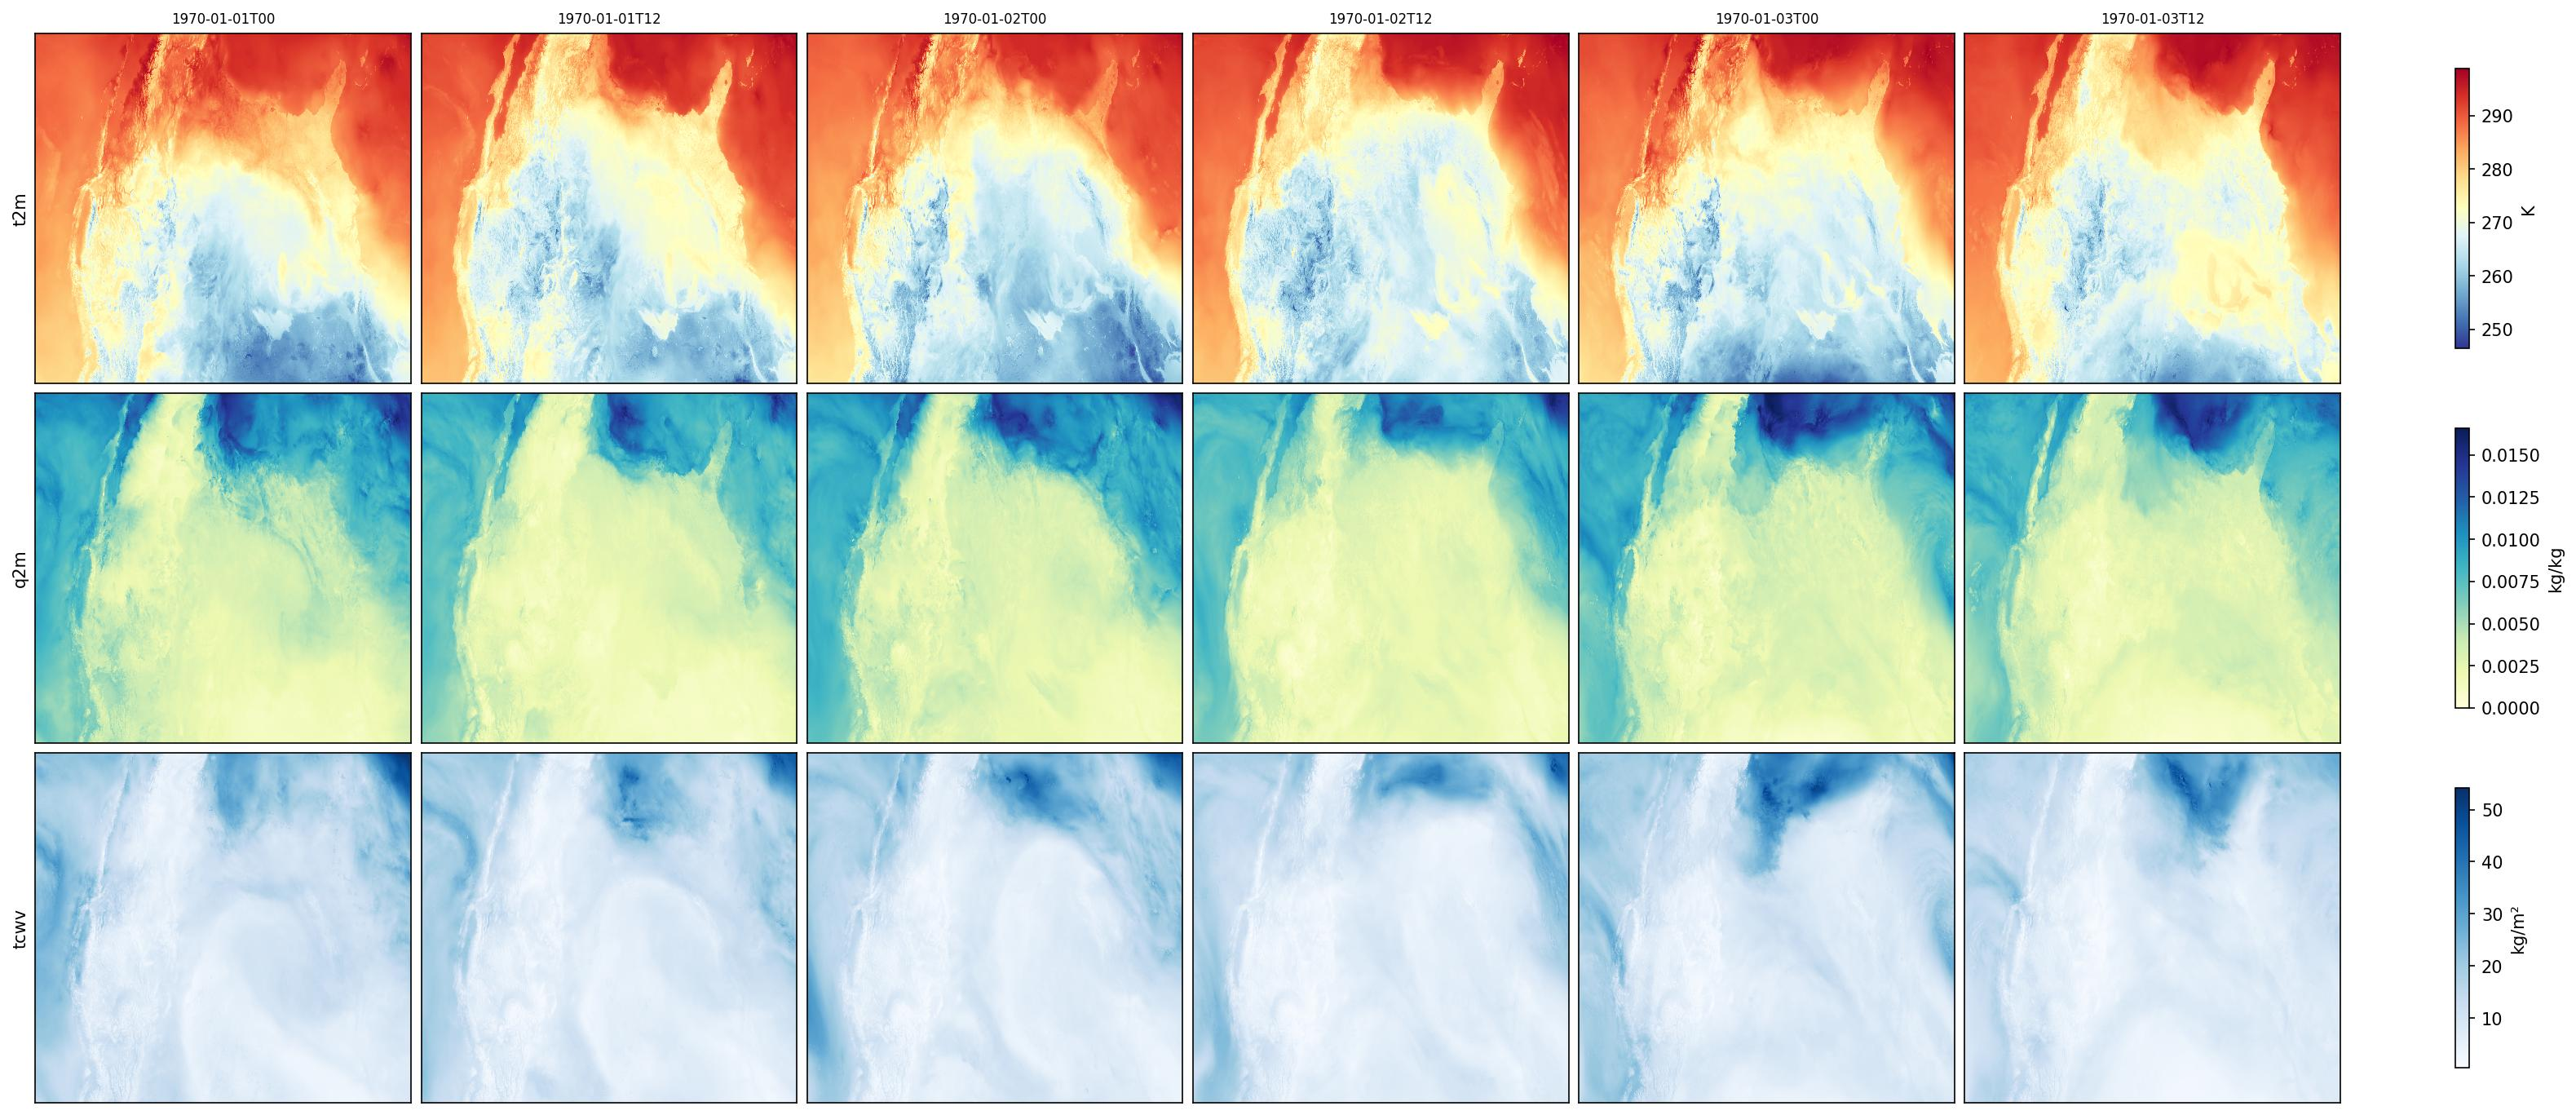
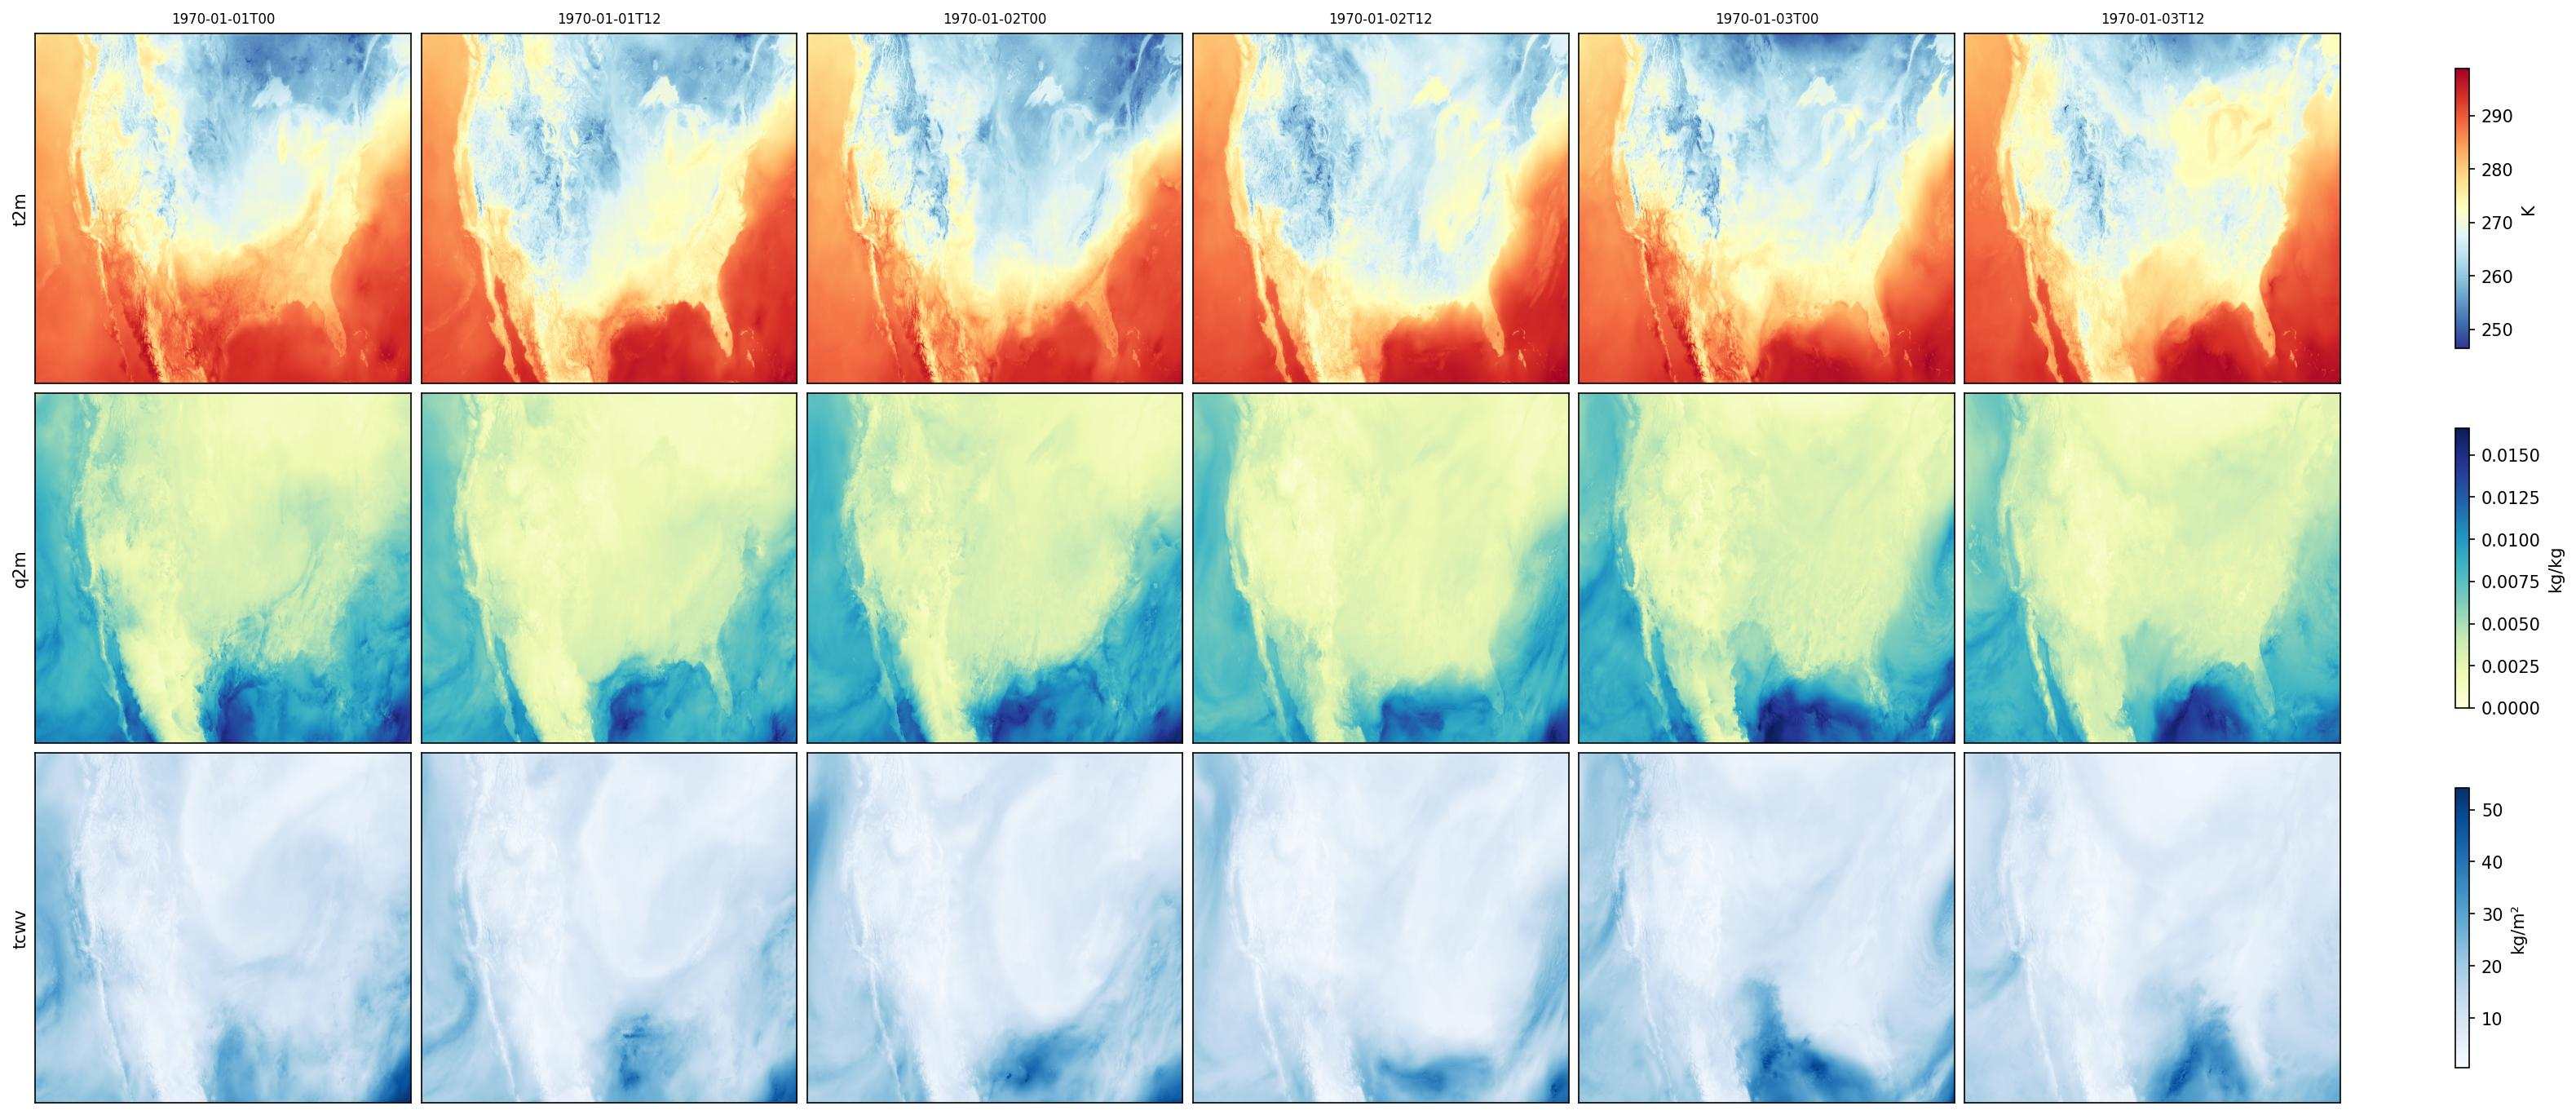
fix(da): correct HRRR dimension order to (hrrr_y, hrrr_x) matching earth2studio
Earth2studio HRRR.fetch() returns dims (time, variable, hrrr_y, hrrr_x)
with shape (n, v, 1059, 1799). The codebase incorrectly documented and
mocked this as (hrrr_x, hrrr_y). Fix source docstrings, test mocks,
examples, and plot script (use imshow with origin='lower', no transpose).

diff --git a/examples/da/hrrr/plot.py b/examples/da/hrrr/plot.py
@@ -50,7 +50,7 @@ def plot_hrrr(output_dir: Path, step_hours: int = 12, out_file: str = "hrrr.jpg"
     epoch = datetime.fromisoformat(parts[1].strip()) if len(parts) == 2 else datetime(1970, 1, 1)
     scale = "days" if "days" in parts[0] else "hours"
 
-    # Load data arrays (time, hrrr_x, hrrr_y)
+    # Load data arrays (time, hrrr_y, hrrr_x)
     t2m = zarr.open_array(str(zarr_path / "t2m" / "data"), mode="r")
     q2m = zarr.open_array(str(zarr_path / "q2m" / "data"), mode="r")
     tcwv = zarr.open_array(str(zarr_path / "tcwv" / "data"), mode="r")
@@ -74,9 +74,11 @@ def plot_hrrr(output_dir: Path, step_hours: int = 12, out_file: str = "hrrr.jpg"
             title = f"t+{t}h"
 
         # t2m row (2-metre temperature in K)
+        # Data shape after indexing: (hrrr_y, hrrr_x) which maps to (rows, cols).
+        # origin="lower" puts hrrr_y index 0 at the bottom of the plot.
         ax_t = axes[0, col]
-        data_t = np.asarray(t2m[t]).T[::-1]
-        im_t = ax_t.pcolormesh(data_t, cmap="RdYlBu_r", shading="auto")
+        data_t = np.asarray(t2m[t])
+        im_t = ax_t.imshow(data_t, cmap="RdYlBu_r", origin="lower", aspect="auto")
         ax_t.set_xticks([])
         ax_t.set_yticks([])
         ax_t.set_title(title, fontsize=8)
@@ -85,8 +87,8 @@ def plot_hrrr(output_dir: Path, step_hours: int = 12, out_file: str = "hrrr.jpg"
 
         # q2m row (2-metre specific humidity in kg/kg)
         ax_q = axes[1, col]
-        data_q = np.asarray(q2m[t]).T[::-1]
-        im_q = ax_q.pcolormesh(data_q, cmap="YlGnBu", shading="auto")
+        data_q = np.asarray(q2m[t])
+        im_q = ax_q.imshow(data_q, cmap="YlGnBu", origin="lower", aspect="auto")
         ax_q.set_xticks([])
         ax_q.set_yticks([])
         if col == 0:
@@ -94,8 +96,8 @@ def plot_hrrr(output_dir: Path, step_hours: int = 12, out_file: str = "hrrr.jpg"
 
         # tcwv row (total column water vapour in kg/m^2)
         ax_w = axes[2, col]
-        data_w = np.asarray(tcwv[t]).T[::-1]
-        im_w = ax_w.pcolormesh(data_w, cmap="Blues", shading="auto")
+        data_w = np.asarray(tcwv[t])
+        im_w = ax_w.imshow(data_w, cmap="Blues", origin="lower", aspect="auto")
         ax_w.set_xticks([])
         ax_w.set_yticks([])
         if col == 0:

diff --git a/src/physicsnemo_curator/domains/da/sources/hrrr.py b/src/physicsnemo_curator/domains/da/sources/hrrr.py
@@ -20,11 +20,12 @@ Fetches `High-Resolution Rapid Refresh (HRRR)
 <https://www.nco.ncep.noaa.gov/pmb/products/hrrr/>`_ hourly analysis data
 from cloud object stores (AWS, Google, or NOMADS) using
 :class:`earth2studio.data.HRRR`.  HRRR provides 3 km North-American weather
-analysis on a Lambert conformal grid with spatial shape ``(1799, 1059)``.
+analysis on a Lambert conformal grid with spatial shape ``(1059, 1799)``
+(hrrr_y, hrrr_x).
 
 Each pipeline index corresponds to a single timestamp, and the returned
 :class:`xarray.DataArray` has dimensions
-``(time, variable, hrrr_x, hrrr_y)`` with a single time step.
+``(time, variable, hrrr_y, hrrr_x)`` with a single time step.
 """
 
 from __future__ import annotations
@@ -114,7 +115,7 @@ class HRRRSource(Source["xr.DataArray"]):
     1
     >>> da = next(source[0])  # doctest: +SKIP
     >>> da.dims  # doctest: +SKIP
-    ('time', 'variable', 'hrrr_x', 'hrrr_y')
+    ('time', 'variable', 'hrrr_y', 'hrrr_x')
 
     Note
     ----
@@ -249,7 +250,7 @@ class HRRRSource(Source["xr.DataArray"]):
         Yields
         ------
         xr.DataArray
-            A single DataArray with dims ``(time, variable, hrrr_x, hrrr_y)``
+            A single DataArray with dims ``(time, variable, hrrr_y, hrrr_x)``
             where ``time`` is length-1.
 
         Raises

diff --git a/test/domains/da/test_pipeline.py b/test/domains/da/test_pipeline.py
@@ -140,10 +140,10 @@ def _make_hrrr_dataarray(
     hrrr_y = np.arange(n_hrrr_y, dtype=float)
     rng = np.random.default_rng(seed)
 
-    data = rng.standard_normal((len(times), len(variables), n_hrrr_x, n_hrrr_y))
+    data = rng.standard_normal((len(times), len(variables), n_hrrr_y, n_hrrr_x))
     return xr.DataArray(
         data=data,
-        dims=["time", "variable", "hrrr_x", "hrrr_y"],
+        dims=["time", "variable", "hrrr_y", "hrrr_x"],
         coords={
             "time": [np.datetime64(t) for t in times],
             "variable": variables,
@@ -1930,7 +1930,7 @@ class TestHRRREndToEnd:
         )
         sink = ZarrSink(
             output_path=str(tmp_path / "output.zarr"),
-            chunks={"time": 1, "hrrr_x": 1799, "hrrr_y": 1059},
+            chunks={"time": 1, "hrrr_y": 1059, "hrrr_x": 1799},
         )
 
         pipeline = source.write(sink)

diff --git a/examples/da/hrrr/main.py b/examples/da/hrrr/main.py
@@ -128,7 +128,7 @@ def main() -> None:
     stats_path = f"{args.output}/stats.zarr"
     stats_filter = DataArrayStatsFilter(output=stats_path, dims=("time",))
     zarr_path = f"{args.output}/dataset.zarr"
-    chunks = {"time": 1, "hrrr_x": 1799, "hrrr_y": 1059}
+    chunks = {"time": 1, "hrrr_y": 1059, "hrrr_x": 1799}
     pipeline = source.filter(stats_filter).write(
         ZarrSink(
             output_path=zarr_path,

diff --git a/src/physicsnemo_curator/domains/da/sinks/zarr_writer.py b/src/physicsnemo_curator/domains/da/sinks/zarr_writer.py
@@ -117,7 +117,7 @@ class ZarrSink(Sink["xr.DataArray"]):
 
     >>> sink = ZarrSink(
     ...     output_path="output.zarr",
-    ...     chunks={"time": 1, "hrrr_x": 1799, "hrrr_y": 1059},
+    ...     chunks={"time": 1, "hrrr_y": 1059, "hrrr_x": 1799},
     ...     n_indices=72,
     ...     variables=["t2m", "q2m", "tcwv"],
     ...     overwrite=True,

diff --git a/examples/da/hrrr/README.md b/examples/da/hrrr/README.md
@@ -1,7 +1,9 @@
-# HRRR Analysis Data ETL
+# NOAA High-Resolution Rapid Refresh (HRRR) Analysis Data ETL
 
 Curate [HRRR][hrrr] 3 km hourly analysis data through a Source -> Filter -> Sink
 pipeline, fetching 3 days of data from AWS cloud storage.
+
+![HRRR surface variables sample](sample.jpg)
 
 The pipeline:
 
@@ -9,7 +11,7 @@ The pipeline:
    skewness, min, max) per spatial grid point using Welford's online
    algorithm.
 2. **ZarrSink** -- writes each timestep to a Zarr v3 store with one
-   group per variable and dimensions `(time, hrrr_x, hrrr_y)`.
+   group per variable and dimensions `(time, hrrr_y, hrrr_x)`.
 
 ## Prerequisites
 
@@ -68,14 +70,14 @@ output/hrrr_analysis/
 │   ├── t2m/
 │   ├── q2m/
 │   └── tcwv/
-└── dataset.zarr/        # Full dataset (time, hrrr_x, hrrr_y) per variable
+└── dataset.zarr/        # Full dataset (time, hrrr_y, hrrr_x) per variable
     ├── t2m/
     ├── q2m/
     └── tcwv/
 ```
 
 Each variable group in `dataset.zarr` contains a 3-D array with
-dimensions `(time=n, hrrr_x=1799, hrrr_y=1059)` at 3 km resolution on
+dimensions `(time=n, hrrr_y=1059, hrrr_x=1799)` at 3 km resolution on
 a Lambert conformal grid.
 
 ## Plotting